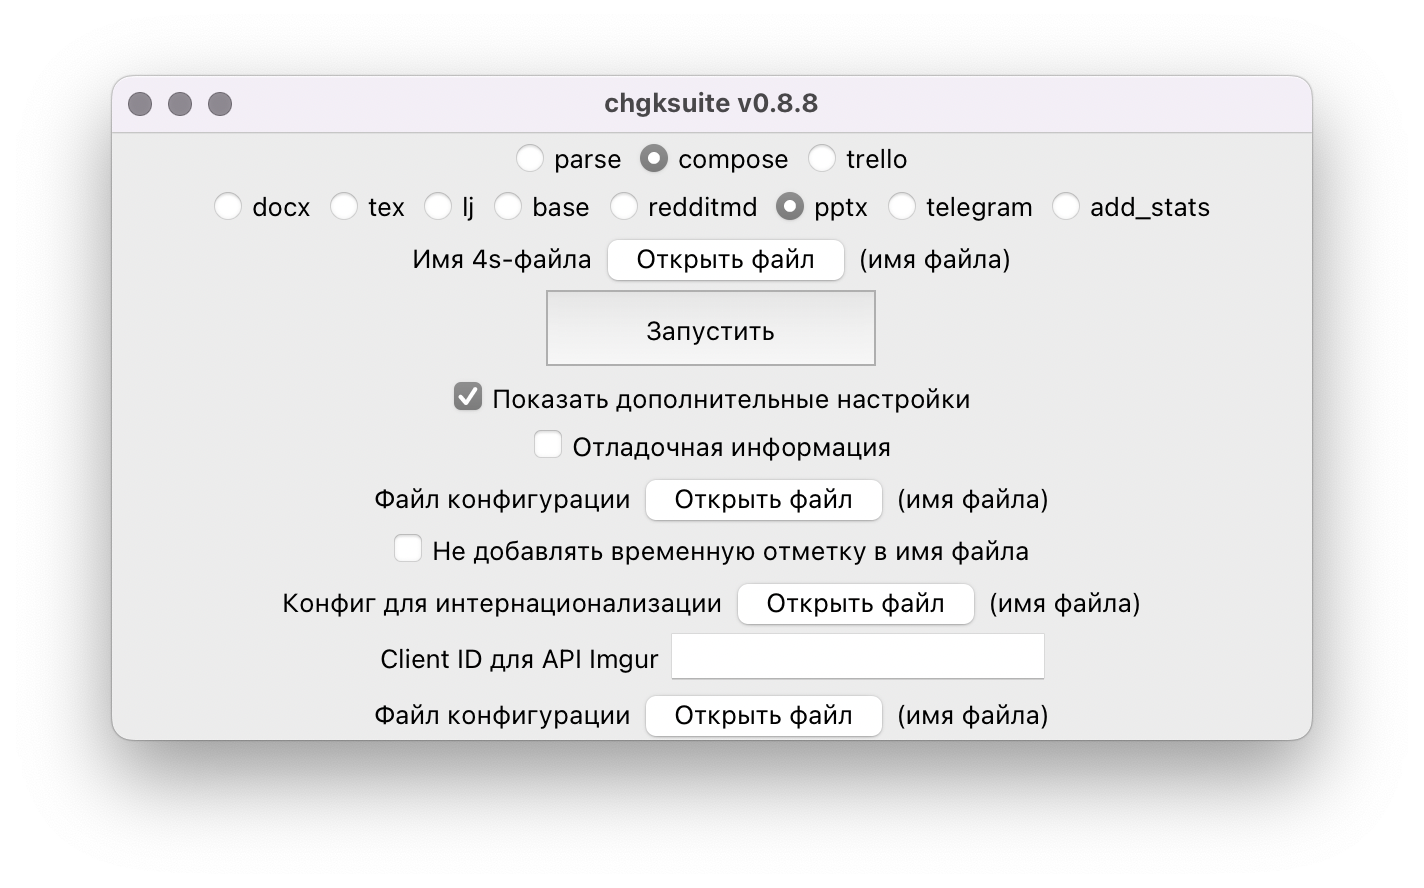
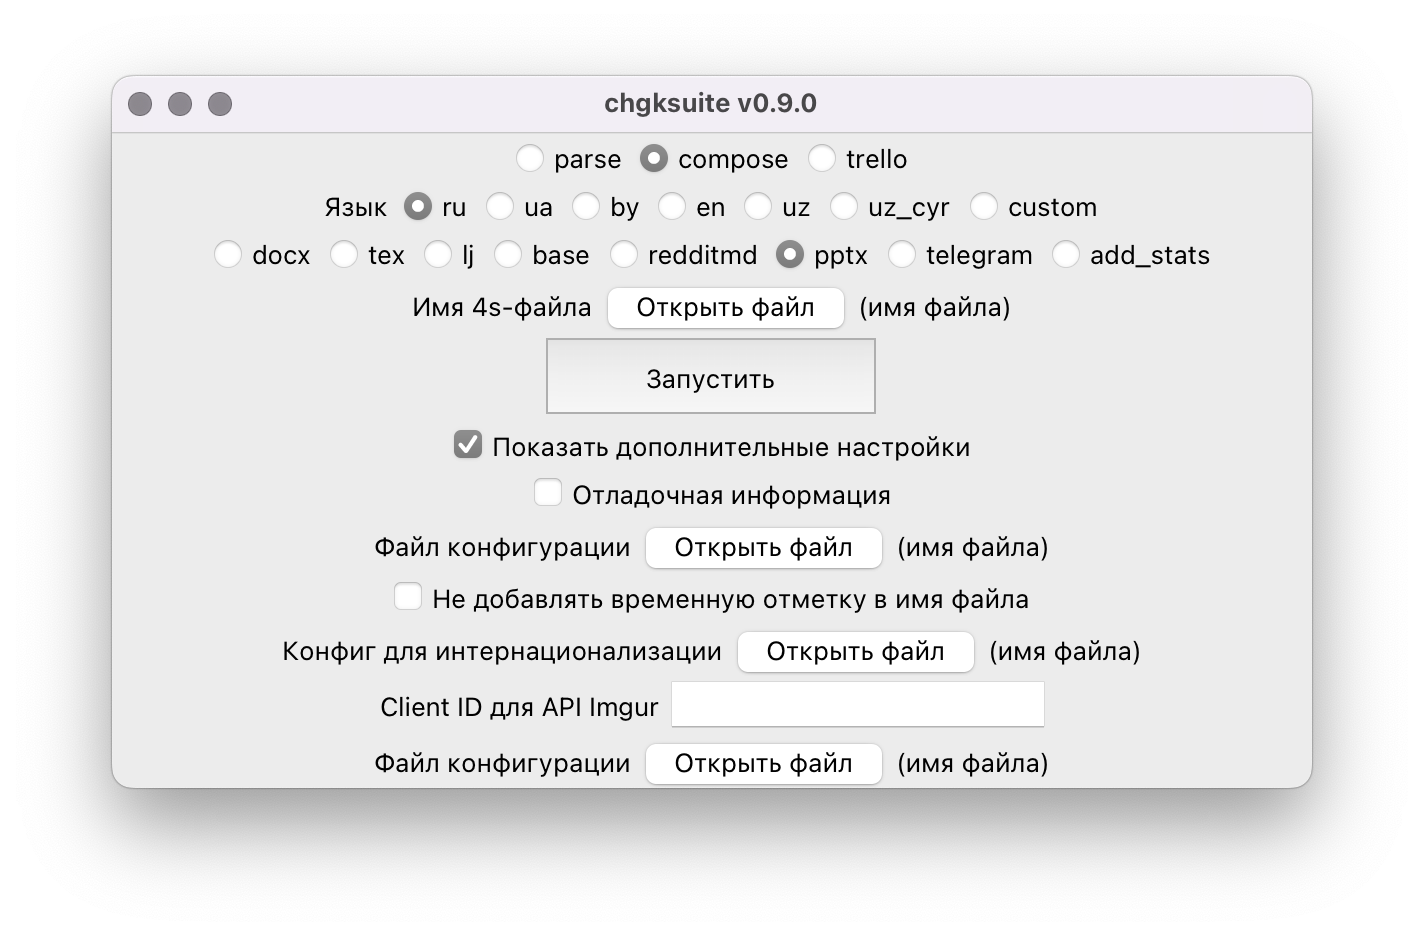
update docs for 0.9.0

Changed region(s): [[0.0618, 0.0912, 0.927, 0.8514]]

diff --git a/docs/docs/i14n.md b/docs/docs/i14n.md
@@ -5,23 +5,31 @@ hide:
 
 # Перевод и кастомизация
 
-В chgksuite есть поддержка возможности мультиязычности. Сейчас поддержан только украинский язык. Встроенные файлы для его поддержки находятся в папке `resources`. Узнать точный путь к папке можно, запустив команду:
+В chgksuite есть поддержка мультиязычности. В версии 0.9.0 поддержаны украинский, английский, беларусский и узбекский (латиница и кириллица) языки. Выбрать язык при парсинге и экспорте можно, ткнув в соответствующую радио-кнопку:
 
-```bash
+![](images/parse.png)
+
+![](images/word.png)
+
+Мультиязычность сейчас работает при экспорте в ворд, пауэрпойнт, ЖЖ и телеграм. Реддит пока не поддержан, а при экспорте в Базу мультиязычность не имеет смысла, так как формат базы поддерживает только русскоязычные поля.
+
+## Добавление нового языка
+
+Для того, чтобы поддержать новый язык, нужно создать файлы `regexes_XX.json` и `labels_XX.toml` по образцу уже существующих. Путь к папке, где лежат существующие файлы, можно узнать, выполнив команду:
+
+```
 python -c "import chgksuite.common; print(chgksuite.common.get_source_dirs()[1])"
 ```
 
-## Парсинг пакета на другом языке
+После этого созданный файл для парсинга можно подключить таким образом:
 
 ![](images/i14n_parse.png)
 
-Нажмите на кнопку «Открыть файл» рядом с опцией «Файл с регулярными выражениями» и выберите `regexes_ua.json`. Откройте файл с пакетом по-украински.
-
-## Экспорт пакета на другом языке
-
-Нажмите на кнопку «Открыть файл» рядом с опцией «Конфиг для интернационализации» и выберите `regexes_ua.json`. Откройте 4s-файл. В получившемся файле названия полей «Вопрос», «Ответ» и т.д. будут по-украински.
+А файл для экспорта — так:
 
 ![](images/i14n.png)
+
+Обратите внимание, что в обоих случаях нужно выбрать `custom` в поле «Язык».
 
 ## Кастомизация полей
 

diff --git a/docs/docs/4s.md b/docs/docs/4s.md
@@ -83,7 +83,7 @@ hide:
 
 ## Парсинг пакета в формат 4s
 
-**chgksuite** умеет автоматически переводить в формат 4s пакеты, сохранённые в вордовском формате docx. Если ваш пакет в старом формате `.doc`, откройте его в Ворде и пересохраните как `.docx`. После этого запустите chgksuite и нажмите радио-кнопку **Parse**:
+**chgksuite** умеет автоматически переводить в формат 4s пакеты, сохранённые в вордовском формате docx. Если ваш пакет в старом формате `.doc`, откройте его в Ворде и пересохраните как `.docx`. После этого запустите chgksuite, выберите язык, если пакет не на русском, и нажмите радио-кнопку **Parse**:
 
 ![](images/parse.png)
 
